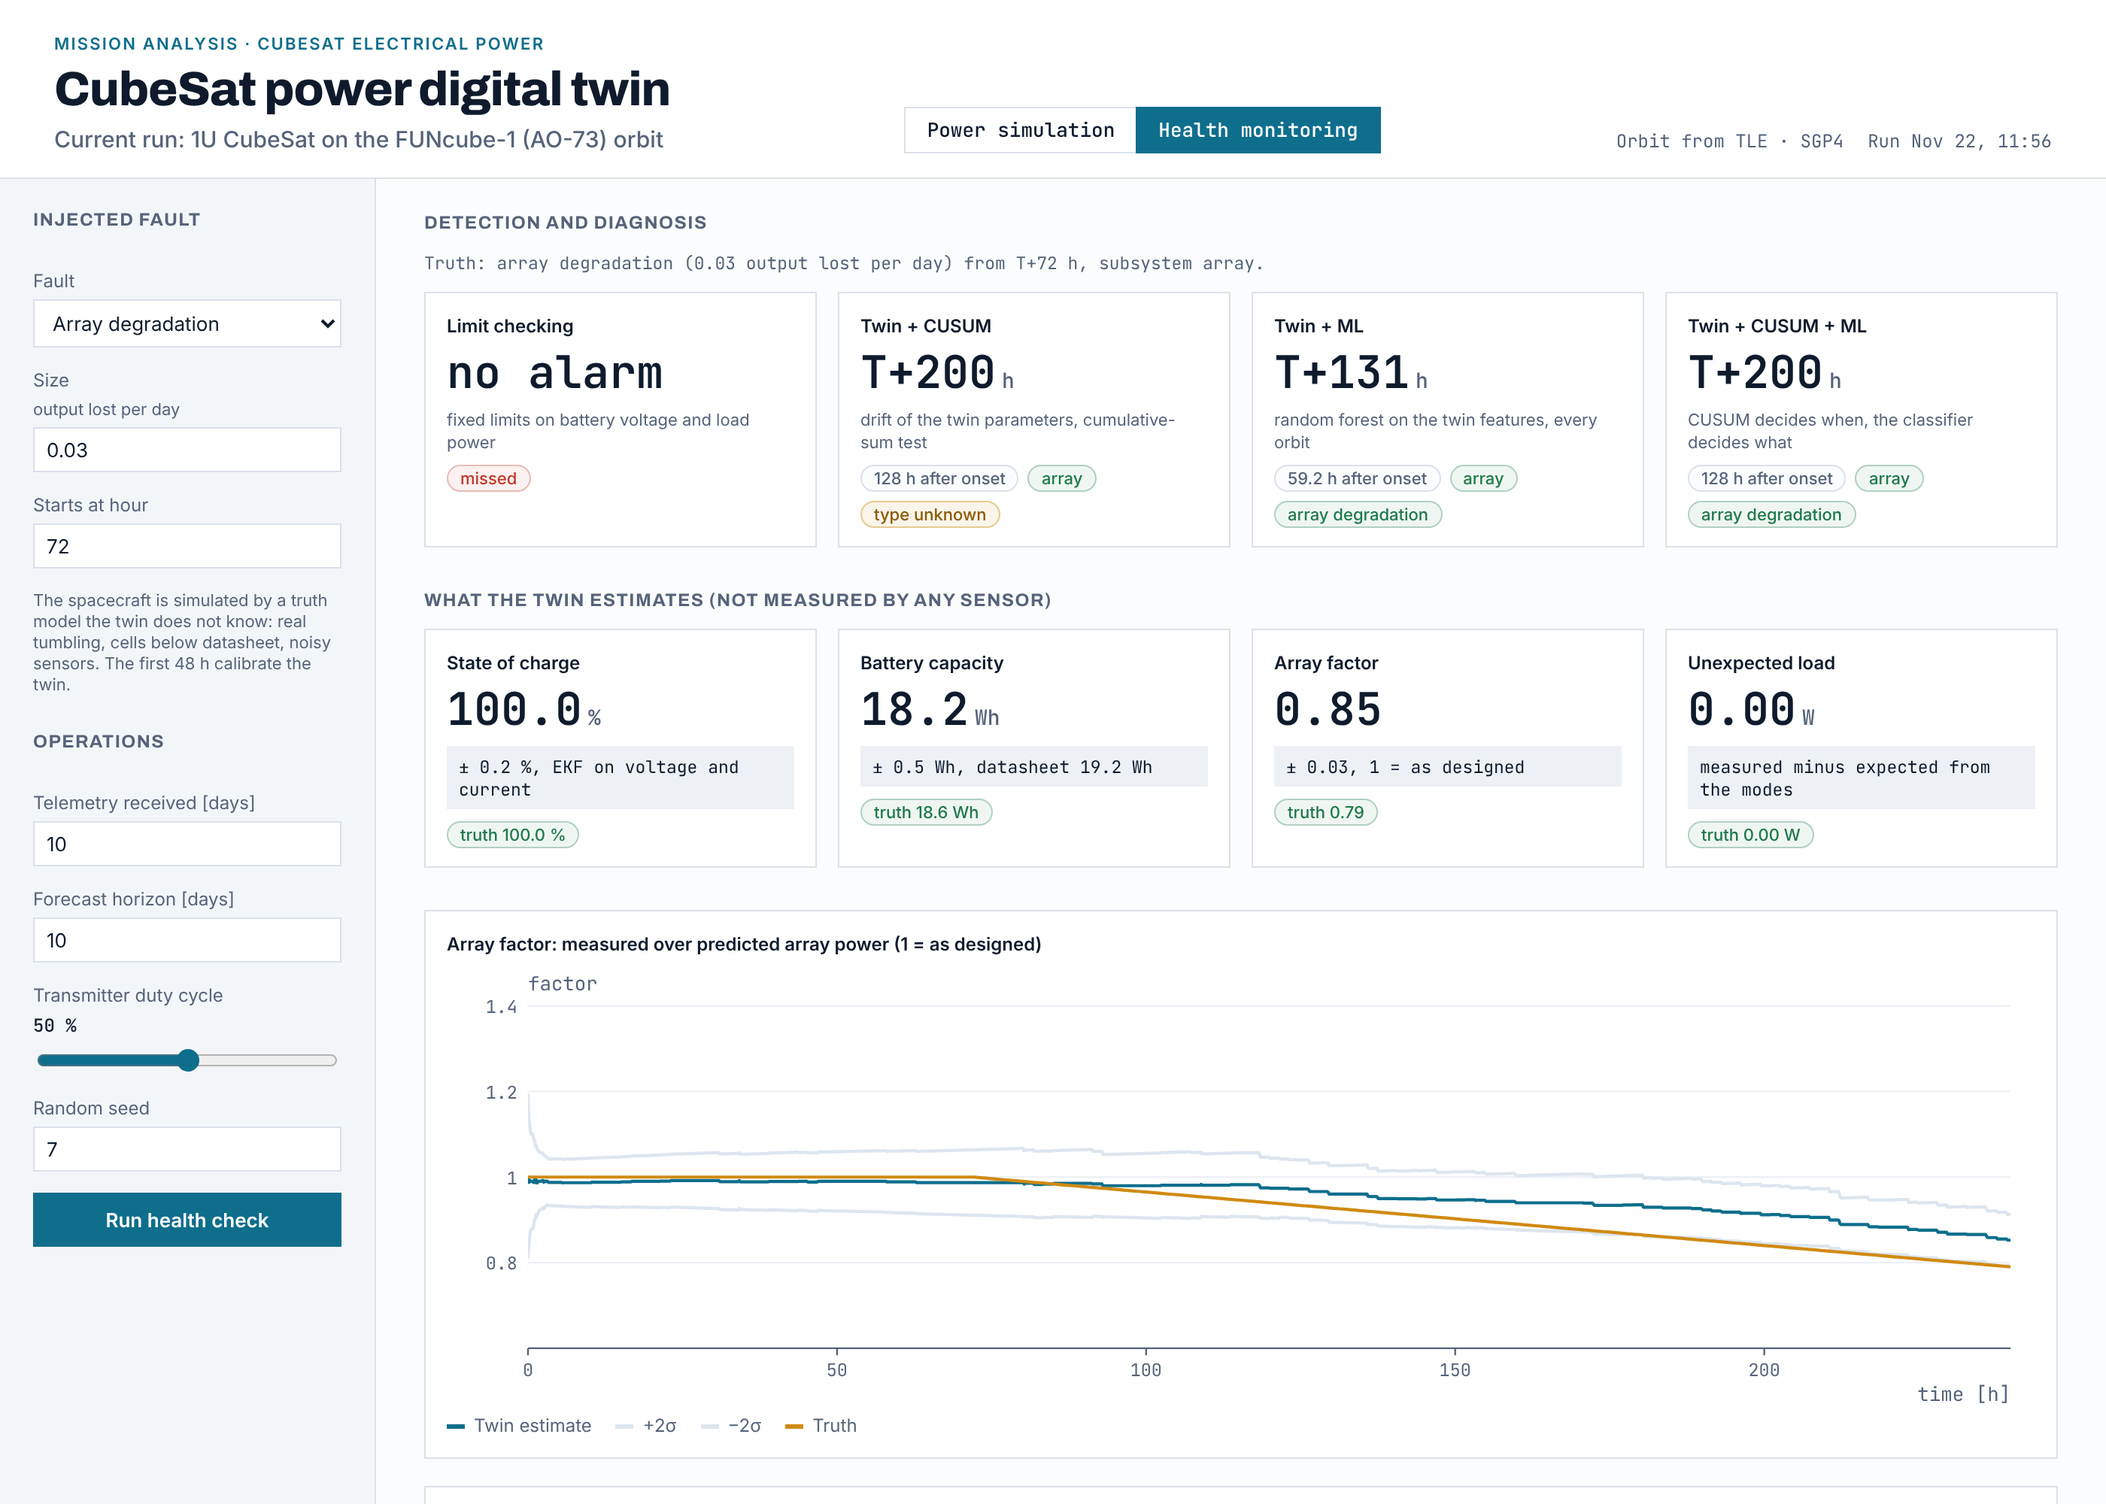
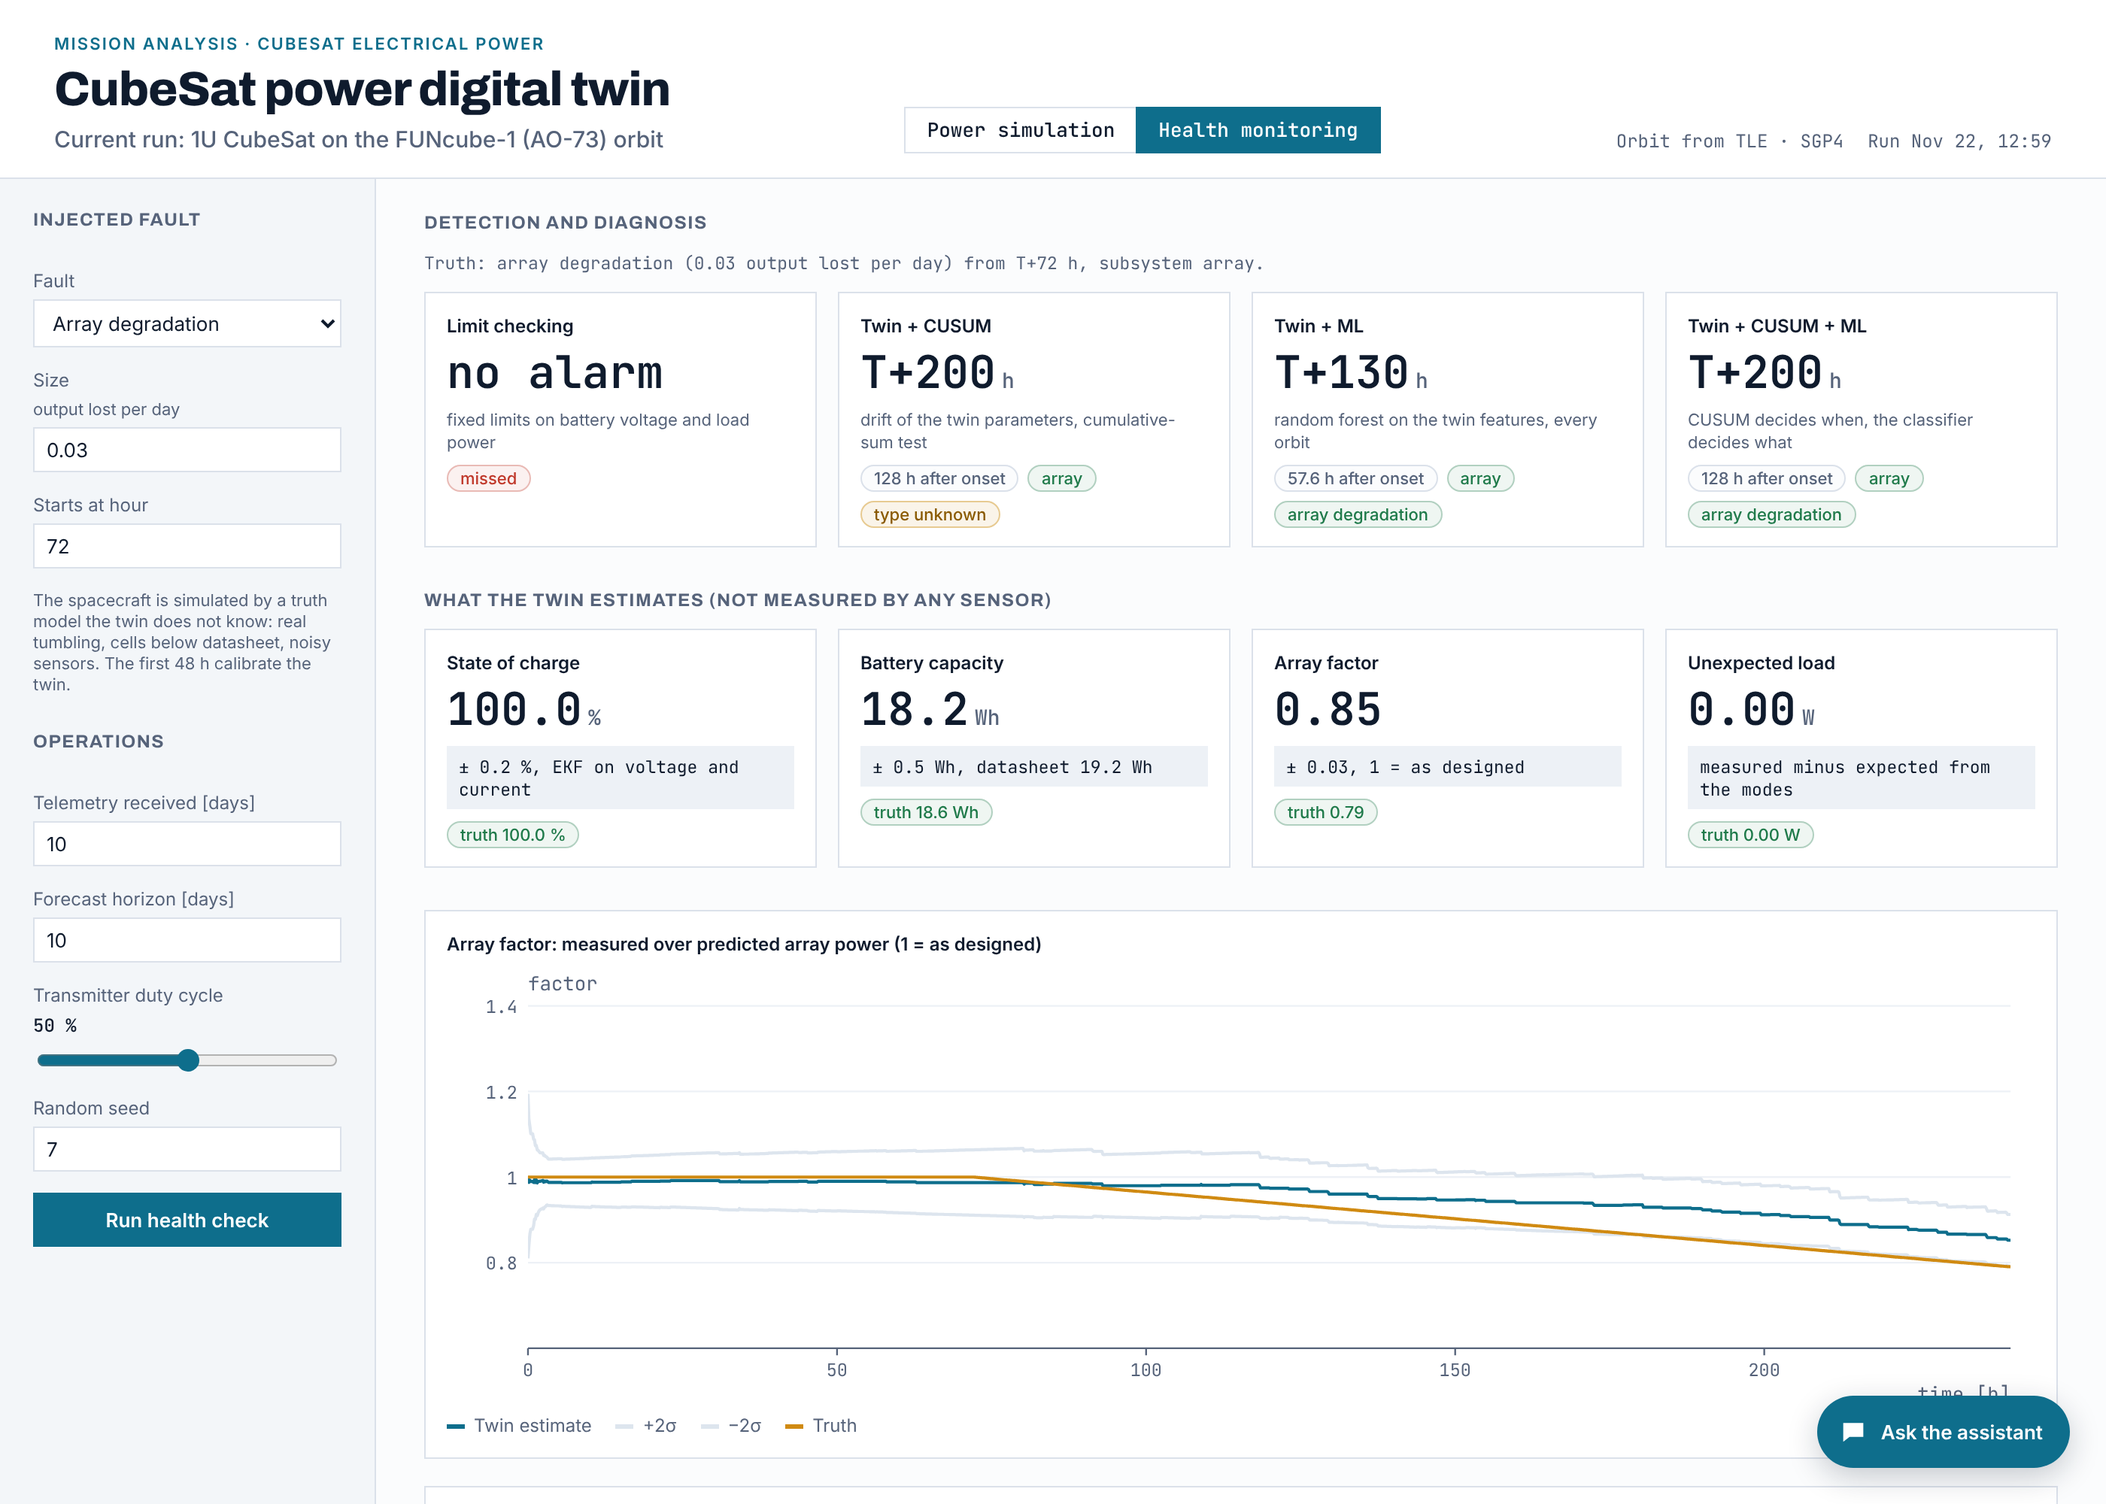
Make the operator assistant a floating chat (#11)
* WIP: ground-station contact plan and energy-coupled DTN store-and-forward model

Not yet tested or documented; work paused on request.

Claude-Session: https://claude.ai/code/session_017xRGYksZaEmfb3KwPvjk3f

* Revert the paused DTN work-in-progress

Removes the contact plan and store-and-forward drafts on request.

Claude-Session: https://claude.ai/code/session_017xRGYksZaEmfb3KwPvjk3f

* Turn the simulator into a health-monitoring digital twin

Synthetic EPS telemetry from a truth model with injected faults, Kalman
filters that keep the twin synchronised and estimate SOC, capacity, array
factor and load bias, four detection methods (limit checking, CUSUM on twin
drifts, random-forest diagnosis, hybrid) with a benchmark, a Monte Carlo
prognosis of the time to safe mode with a duty-cycle study, an operator
assistant that explains the report with Claude, and a Health monitoring
view in the dashboard.

Claude-Session: https://claude.ai/code/session_017xRGYksZaEmfb3KwPvjk3f

* Make the operator assistant a floating chat

The assistant moves from a section at the bottom of the Health view to a
button fixed at the bottom right that opens a chat panel: suggested
questions, the conversation about the current report, Escape to close.
A new health check starts a new conversation. Backend errors now say
whether the server is down or returned an error.

Claude-Session: https://claude.ai/code/session_017xRGYksZaEmfb3KwPvjk3f

---------

Changed region(s): [[0.8389, 0.93, 0.9943, 0.992], [0.6214, 0.31, 0.7146, 0.341]]

diff --git a/web/src/app/assistant-chat.ts b/web/src/app/assistant-chat.ts
@@ -1,0 +1,135 @@
+import { Component, ElementRef, effect, inject, input, signal, viewChild } from '@angular/core';
+import { FormsModule } from '@angular/forms';
+
+import { Explanation, HealthRequest, HealthService } from './health.service';
+
+interface ChatMessage {
+  role: 'user' | 'assistant' | 'error';
+  text: string;
+  source?: Explanation['source'];
+  whatIfs?: number[];
+}
+
+const SUGGESTIONS = [
+  'What is happening to the power system and what should I do?',
+  'How sure is the twin about this diagnosis?',
+  'How much time do we have before safe mode?',
+  'What if we stop transmitting?',
+];
+
+/**
+ * The operator assistant as a floating chat: a button fixed at the bottom right
+ * opens a panel with the conversation about the current health report.
+ * Each question is answered from the report and the twin's what-if tool.
+ */
+@Component({
+  selector: 'app-assistant-chat',
+  imports: [FormsModule],
+  styleUrls: ['./assistant-chat.css'],
+  host: { '(document:keydown.escape)': 'open.set(false)' },
+  template: `
+@if (open()) {
+  <section class="panel" role="dialog" aria-label="Operator assistant">
+    <header>
+      <div>
+        <h2>Operator assistant</h2>
+        <p>Explains the current health report. Numbers come from the twin.</p>
+      </div>
+      <button type="button" class="close" (click)="open.set(false)" aria-label="Close the assistant">×</button>
+    </header>
+
+    <div class="log" #log>
+      @if (!messages().length) {
+        <p class="intro">{{ request() ? 'Ask about the alarm, the forecast or a corrective action.' : 'Run a health check first, then ask about it.' }}</p>
+        @if (request()) {
+          <div class="suggest">
+            @for (s of suggestions; track s) { <button type="button" (click)="send(s)">{{ s }}</button> }
+          </div>
+        }
+      }
+      @for (m of messages(); track $index) {
+        <div class="msg" [class]="m.role">
+          <p>{{ m.text }}</p>
+          @if (m.role === 'assistant') {
+            <span class="meta">
+              {{ m.source === 'model' ? 'Written by the language model from the twin report' : 'Template answer (no LLM configured on the backend)' }}
+              @for (d of m.whatIfs; track $index) { · what-if at {{ (d * 100).toFixed(0) }} % duty cycle }
+            </span>
+          }
+        </div>
+      }
+      @if (asking()) { <div class="msg assistant typing"><p>Thinking…</p></div> }
+    </div>
+
+    <form (ngSubmit)="send(draft)">
+      <input name="q" [(ngModel)]="draft" [disabled]="!request()" placeholder="Ask the assistant…" aria-label="Question for the assistant" #box />
+      <button type="submit" [disabled]="asking() || !draft.trim() || !request()">Send</button>
+    </form>
+  </section>
+}
+
+<button type="button" class="fab" [class.on]="open()" (click)="toggle()"
+        [attr.aria-expanded]="open()" [attr.aria-label]="open() ? 'Close the assistant' : 'Open the operator assistant'">
+  @if (open()) { <span aria-hidden="true">×</span> } @else {
+    <svg viewBox="0 0 24 24" aria-hidden="true"><path d="M4 5h16v11H9l-5 4z" /></svg>
+    <span class="label">Ask the assistant</span>
+  }
+</button>
+  `,
+})
+export class AssistantChat {
+  private readonly api = inject(HealthService);
+  /** The request of the report on screen; null before the first health check. */
+  readonly request = input<HealthRequest | null>(null);
+
+  readonly suggestions = SUGGESTIONS;
+  readonly open = signal(false);
+  readonly messages = signal<ChatMessage[]>([]);
+  readonly asking = signal(false);
+  draft = '';
+
+  private readonly log = viewChild<ElementRef<HTMLElement>>('log');
+  private readonly box = viewChild<ElementRef<HTMLInputElement>>('box');
+
+  constructor() {
+    // A new health check starts a new conversation.
+    effect(() => {
+      this.request();
+      this.messages.set([]);
+    });
+    // Keep the latest message in view.
+    effect(() => {
+      this.messages();
+      this.asking();
+      const el = this.log()?.nativeElement;
+      if (el) queueMicrotask(() => (el.scrollTop = el.scrollHeight));
+    });
+  }
+
+  toggle() {
+    this.open.update((v) => !v);
+    if (this.open()) queueMicrotask(() => this.box()?.nativeElement.focus());
+  }
+
+  send(text: string) {
+    const r = this.request();
+    const q = text.trim();
+    if (!r || !q || this.asking()) return;
+    this.draft = '';
+    this.messages.update((m) => [...m, { role: 'user', text: q }]);
+    this.asking.set(true);
+    this.api.explain(r, q).subscribe({
+      next: (a) => {
+        this.messages.update((m) => [...m, {
+          role: 'assistant', text: a.text, source: a.source, whatIfs: a.tool_calls.map((t) => t.input.tx_duty),
+        }]);
+        this.asking.set(false);
+      },
+      error: (e) => {
+        const text = e?.status === 0 ? 'Backend not reachable.' : `The backend returned an error (${e?.status}). See the uvicorn terminal.`;
+        this.messages.update((m) => [...m, { role: 'error', text }]);
+        this.asking.set(false);
+      },
+    });
+  }
+}

diff --git a/web/src/app/health-panel.ts b/web/src/app/health-panel.ts
@@ -1,7 +1,8 @@
 import { Component, computed, inject, signal } from '@angular/core';
 import { FormsModule } from '@angular/forms';
 
-import { Explanation, FaultKind, HealthReport, HealthRequest, HealthService } from './health.service';
+import { AssistantChat } from './assistant-chat';
+import { FaultKind, HealthReport, HealthRequest, HealthService } from './health.service';
 import { LineChart, Series } from './line-chart';
 
 const FAULTS: { kind: FaultKind; label: string; unit: string; step: number; def: number }[] = [
@@ -22,11 +23,11 @@ const METHODS: Record<string, { name: string; how: string }> = {
 /**
  * Health monitoring: synthetic telemetry with an injected fault, the twin kept in
  * sync by Kalman filters, four detection methods side by side, the prognosis and
- * the operator assistant.
+ * the operator assistant (a floating chat).
  */
 @Component({
   selector: 'app-health-panel',
-  imports: [FormsModule, LineChart],
+  imports: [AssistantChat, FormsModule, LineChart],
   styleUrls: ['./app.css', './health-panel.css'],
   template: `
 <div class="body">
@@ -139,27 +140,12 @@ const METHODS: Record<string, { name: string; how: string }> = {
         </table>
       </section>
 
-      <section>
-        <h2>Ask the operator assistant</h2>
-        <form class="ask" (ngSubmit)="ask()">
-          <input name="q" [(ngModel)]="question" aria-label="Question for the assistant" />
-          <button class="ghost" type="submit" [disabled]="asking()">{{ asking() ? 'Thinking…' : 'Ask' }}</button>
-        </form>
-        @if (answer(); as ans) {
-          <div class="answer">
-            <p>{{ ans.text }}</p>
-            <p class="hint">
-              {{ ans.source === 'model' ? 'Written by Claude from the twin report' : 'Template answer (no Anthropic credential configured on the backend)' }}
-              @for (t of ans.tool_calls; track $index) { · what-if at {{ (t.input.tx_duty * 100).toFixed(0) }} % duty cycle }
-            </p>
-          </div>
-        }
-      </section>
     </main>
   } @else {
     <main><p class="empty">{{ loading() ? 'Generating telemetry, synchronising the twin, running the forecast…' : 'Choose a fault and run the health check.' }}</p></main>
   }
 </div>
+<app-assistant-chat [request]="ranWith()" />
   `,
 })
 export class HealthPanel {
@@ -170,14 +156,11 @@ export class HealthPanel {
   readonly req: HealthRequest = {
     fault: 'array_degradation', magnitude: 0.03, onset_h: 72, days: 10, horizon_days: 10, tx_duty: 0.5, seed: 7,
   };
-  question = 'What is happening to the power system and what should I do?';
 
   readonly report = signal<HealthReport | null>(null);
   readonly ranWith = signal<HealthRequest | null>(null);
   readonly loading = signal(false);
   readonly error = signal('');
-  readonly answer = signal<Explanation | null>(null);
-  readonly asking = signal(false);
   private readonly faultKind = signal<FaultKind>(this.req.fault);
   readonly fault = computed(() => FAULTS.find((f) => f.kind === this.faultKind())!);
 
@@ -194,21 +177,15 @@ export class HealthPanel {
   run() {
     this.loading.set(true);
     this.error.set('');
-    this.answer.set(null);
     const r = { ...this.req };
     this.api.run(r).subscribe({
       next: (rep) => { this.report.set(rep); this.ranWith.set(r); this.loading.set(false); },
-      error: (e) => { this.error.set(e?.error?.detail ? JSON.stringify(e.error.detail) : 'Backend not reachable'); this.loading.set(false); },
-    });
-  }
-
-  ask() {
-    const r = this.ranWith();
-    if (!r) return;
-    this.asking.set(true);
-    this.api.explain(r, this.question).subscribe({
-      next: (a) => { this.answer.set(a); this.asking.set(false); },
-      error: () => { this.asking.set(false); },
+      error: (e) => {
+        this.error.set(e?.error?.detail ? JSON.stringify(e.error.detail)
+          : e?.status === 0 ? 'Backend not reachable. Start it with: uvicorn api:app --app-dir src/cubesat_twin'
+          : `The backend returned an error (${e?.status}). See the uvicorn terminal for the traceback.`);
+        this.loading.set(false);
+      },
     });
   }
 

diff --git a/web/src/app/assistant-chat.css b/web/src/app/assistant-chat.css
@@ -1,0 +1,53 @@
+/* Floating operator assistant: a fixed button and a chat panel above it. */
+:host { font: 13px var(--f-body); color: var(--text); }
+
+.fab {
+  position: fixed; right: 24px; bottom: 24px; z-index: 50;
+  display: flex; align-items: center; gap: 8px;
+  height: 48px; min-width: 48px; padding: 0 18px 0 14px; border: 0; border-radius: 24px;
+  background: var(--accent); color: var(--on-accent); font: 600 13px var(--f-body); cursor: pointer;
+  box-shadow: 0 6px 20px rgb(15 27 45 / 22%);
+}
+.fab svg { width: 20px; height: 20px; fill: currentColor; }
+.fab.on { padding: 0; justify-content: center; width: 48px; font-size: 24px; line-height: 1; }
+.fab:focus-visible, .panel button:focus-visible, .panel input:focus-visible { outline: 2px solid var(--accent); outline-offset: 2px; }
+
+.panel {
+  position: fixed; right: 24px; bottom: 84px; z-index: 50;
+  width: min(380px, calc(100vw - 32px)); height: min(560px, calc(100vh - 120px));
+  display: flex; flex-direction: column;
+  background: var(--panel); border: 1px solid var(--border); box-shadow: 0 12px 40px rgb(15 27 45 / 18%);
+}
+header { display: flex; justify-content: space-between; gap: 12px; padding: 12px 14px; border-bottom: 1px solid var(--border); background: var(--panel-2); }
+header h2 { margin: 0; font: 600 14px var(--f-display); }
+header p { margin: 2px 0 0; color: var(--muted); font-size: 12px; }
+.close { border: 0; background: none; color: var(--muted); font-size: 22px; line-height: 1; cursor: pointer; padding: 0 4px; }
+
+.log { flex: 1; overflow-y: auto; padding: 14px; display: flex; flex-direction: column; gap: 10px; }
+.intro { margin: 0; color: var(--muted); }
+.suggest { display: flex; flex-direction: column; gap: 6px; }
+.suggest button {
+  text-align: left; font: 12px var(--f-body); color: var(--accent); background: var(--panel);
+  border: 1px solid var(--border); padding: 7px 10px; cursor: pointer;
+}
+.suggest button:hover { background: var(--panel-2); }
+
+.msg { max-width: 88%; padding: 9px 11px; }
+.msg p { margin: 0; line-height: 1.5; white-space: pre-line; }
+.msg.user { align-self: flex-end; background: var(--accent); color: var(--on-accent); }
+.msg.assistant { align-self: flex-start; background: var(--panel-2); border: 1px solid var(--border); }
+.msg.error { align-self: flex-start; color: var(--danger); border: 1px solid var(--danger); }
+.msg.typing p { color: var(--muted); font-style: italic; }
+.meta { display: block; margin-top: 6px; color: var(--muted); font-size: 11px; }
+
+form { display: flex; gap: 8px; padding: 10px; border-top: 1px solid var(--border); }
+form input { flex: 1; min-width: 0; font: 13px var(--f-body); padding: 8px 10px; border: 1px solid var(--border); background: var(--panel); color: var(--text); }
+form button { font: 600 13px var(--f-body); background: var(--accent); color: var(--on-accent); border: 0; padding: 0 14px; cursor: pointer; }
+form button:disabled { opacity: 0.5; cursor: default; }
+
+@media (max-width: 520px) {
+  .fab { right: 16px; bottom: 16px; }
+  .fab .label { display: none; }
+  .fab:not(.on) { padding: 0; width: 48px; justify-content: center; }
+  .panel { right: 16px; bottom: 76px; }
+}

diff --git a/web/src/app/health-panel.css b/web/src/app/health-panel.css
@@ -1,8 +1,4 @@
-/* Health panel: reuses app.css, adds the assistant box and the recommended row. */
+/* Health panel: reuses app.css, adds the recommended row. */
 :host { display: block; }
 tr.rec td { font-weight: 600; background: color-mix(in srgb, var(--good) 8%, white); }
-.ask { display: flex; gap: 8px; margin-bottom: 12px; }
-.ask input { flex: 1; min-width: 0; font: 13px var(--f-body); padding: 7px 10px; border: 1px solid var(--border); background: var(--panel); color: var(--text); }
-.answer { background: var(--panel); border: 1px solid var(--border); padding: 12px 14px; }
-.answer p { margin: 0 0 6px; line-height: 1.5; white-space: pre-line; }
 .card .hint { line-height: 1.35; }

diff --git a/README.md b/README.md
@@ -263,6 +263,12 @@ Messages API with one client tool, bounded to four rounds. It needs an Anthropic
 backend (`ANTHROPIC_API_KEY` or an `ant auth login` profile). Without one, the endpoint answers with
 a template explanation built from the same report.
 
+In the dashboard the assistant is a floating chat: a button fixed at the bottom right of the Health
+view opens it, with suggested questions and the conversation about the report on screen. A new
+health check starts a new conversation.
+
+![Operator assistant chat](docs/health-assistant.png)
+
 ## Using it as a study tool
 
 The dashboard is built to compare scenarios, not to show a single case.
